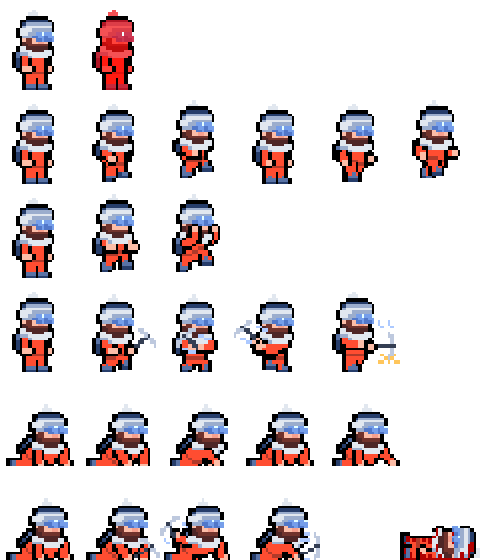
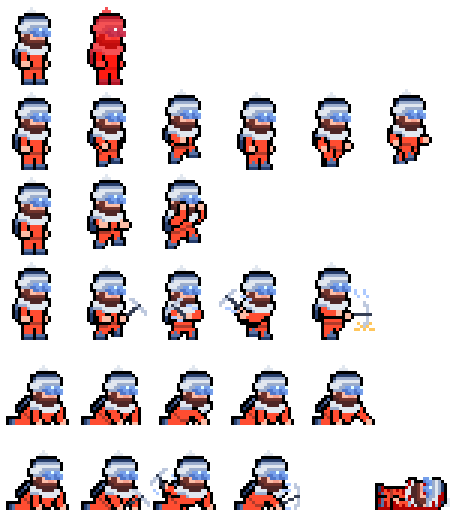
Sizing fixes

diff --git a/scenes/Level1Scene.js b/scenes/Level1Scene.js
@@ -9,8 +9,8 @@ export class Level1Scene extends Phaser.Scene {
         this.load.image('b1', '../resources/tiles2/b1.png');
 
         this.load.spritesheet('player', '../resources/characters/player.png', {
-            frameWidth: 80,
-			frameHeight: 90
+            frameWidth: 75,
+			frameHeight: 85
         });
 
         this.load.spritesheet('enemy', '../resources/characters/bears.png', {
@@ -46,13 +46,14 @@ export class Level1Scene extends Phaser.Scene {
         // Add player sprite (only first frame for now)
 		this.player = this.physics.add.sprite(spawnPoint.x, spawnPoint.y, 'player', 0);
 		this.player.setCollideWorldBounds(true);
-		this.player.body.setSize(60, 80);
+		this.player.body.setSize(75, 85);
 
-		this.anims.create({ key: 'idle', frames: [ { key: 'player', frame: 0 } ], frameRate: 1 });
-		this.anims.create({ key: 'run', frames: this.anims.generateFrameNumbers('player', { start: 6, end: 11 }), frameRate: 10, repeat: -1 });
-		this.anims.create({ key: 'jump', frames: [ { key: 'player', frame: 14 } ], frameRate: 1 });
+		this.anims.create({ key: 'idle', frames: [ { key: 'player', frame: 0 } ], frameRate: 1 }); //done
+		this.anims.create({ key: 'run', frames: this.anims.generateFrameNumbers('player', { start: 6, end: 11 }), frameRate: 10, repeat: -1 }); //done
+		this.anims.create({ key: 'jump', frames: [ { key: 'player', frame: 14 } ], frameRate: 1 }); //done
 		this.anims.create({ key: 'attack', frames: this.anims.generateFrameNumbers('player', { start: 18, end: 22 }), frameRate: 12 });
-		this.anims.create({ key: 'crawl', frames: this.anims.generateFrameNumbers('player', { start: 24, end: 28 }), frameRate: 8, repeat: -1 });
+		this.anims.create({ key: 'crawl_idle', frames: [ { key: 'player', frame: 24 } ], frameRate: 1 });
+		this.anims.create({ key: 'crawl', frames: this.anims.generateFrameNumbers('player', { start: 24, end: 28 }), frameRate: 8, repeat: -1 }); //done
 		this.anims.create({ key: 'crawl_attack', frames: this.anims.generateFrameNumbers('player', { start: 30, end: 33 }), frameRate: 10 });
 		this.anims.create({ key: 'damage', frames: [ { key: 'player', frame: 1 } ], frameRate: 1 });
 		this.anims.create({ key: 'death', frames: [ { key: 'player', frame: 35 } ], frameRate: 1 });
@@ -75,18 +76,12 @@ export class Level1Scene extends Phaser.Scene {
 		map.getObjectLayer('Enemies').objects.forEach(enemyObj => {
 			const enemy = this.enemies.create(enemyObj.x, enemyObj.y, 'enemy', 8);
 			enemy.setCollideWorldBounds(true);
+			//this.anims.create({ key: 'enemy_walk',frames: this.anims.generateFrameNumbers('enemy', { start: 8, end: 11 }), frameRate: 6,repeat: -1});
 			//enemy.play('enemy_walk');
 			enemy.setVelocityX(-50); // Comença movent-se cap a l’esquerra
 			enemy.direction = 'left'; // Guardem direcció actual
 			enemy.body.setSize(90, 70);
 		});
-
-		/*this.anims.create({
-			key: 'enemy_walk',
-			frames: this.anims.generateFrameNumbers('enemy', { start: 8, end: 11 }),
-			frameRate: 6,
-			repeat: -1
-		});*/
 
 		// Collisions for enemies too
 		this.physics.add.collider(this.enemies, groundLayer);
@@ -129,17 +124,24 @@ export class Level1Scene extends Phaser.Scene {
 			this.player.play('jump', true);
 		} else if (moving) {
 			if (this.cursors.down.isDown) {
-				this.player.body.setSize(80, 60);
+				this.player.body.setSize(75, 40);
 				this.playerState = 'crawl';
 				this.player.play('crawl', true);
 			} else {
-				this.player.body.setSize(60, 80);
+				this.player.body.setSize(75, 85);
 				this.playerState = 'run';
 				this.player.play('run', true);
 			}
 		} else {
-			this.playerState = 'idle';
-			this.player.play('idle', true);
+			if (this.cursors.down.isDown) {
+				this.player.body.setSize(75, 40);
+				this.playerState = 'crawl_idle';
+				this.player.play('crawl_idle', true);
+			} else {
+				this.player.body.setSize(75, 85);
+				this.playerState = 'idle';
+				this.player.play('idle', true);
+			}
 		}
 
 		this.enemies.getChildren().forEach(enemy => {
